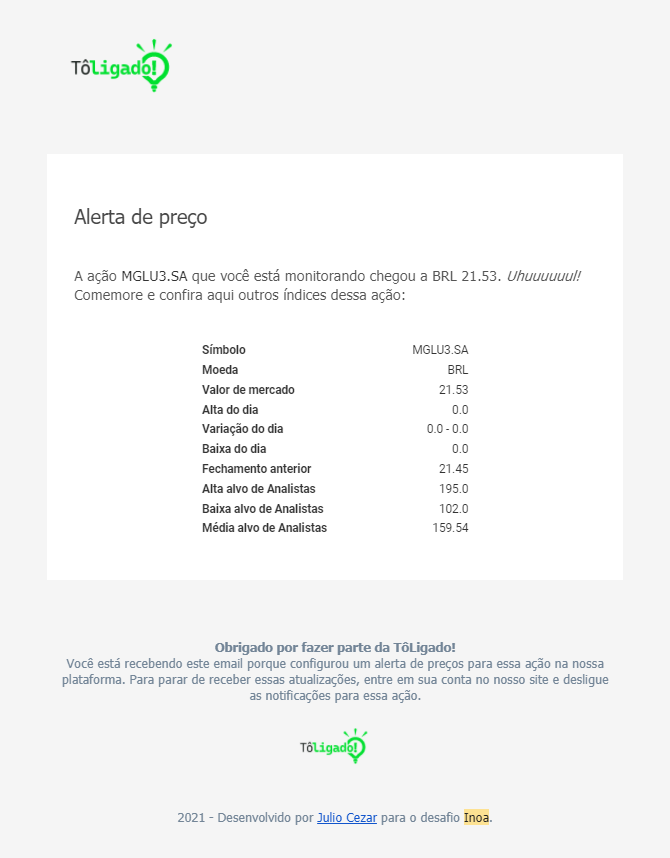
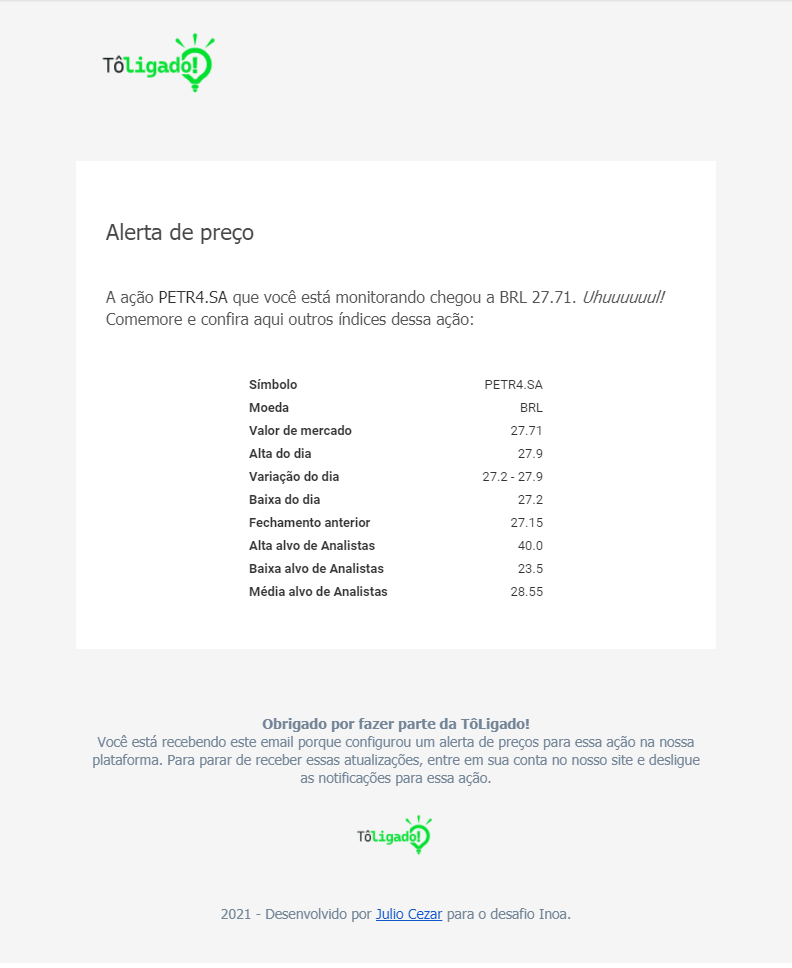
atualização do screenshot de email

diff --git a/README.md b/README.md
@@ -68,7 +68,11 @@ O que esse projeto é capaz de fazer:
 
 Emails simplesmente BONITAÇOS
 
-![Product Name Screen Shot][product-screenshot]
+![Email Screenshot][mail-screenshot]
+
+E um fluxo simples e intuitivo
+
+![TôLigado! Screenshot][product-screenshot]
 
 Os principais recursos que usei para fazer esse projeto estão listados nos créditos.
 
